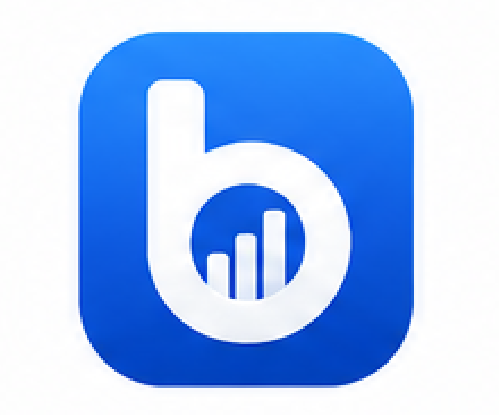
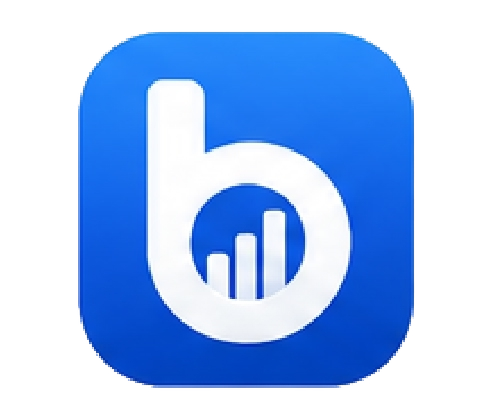
Update README with new branding images and badges

diff --git a/README.md b/README.md
@@ -1,12 +1,19 @@
-# budget
-
 <p>
-  <img src="docs/brand/isotipo.png" alt="budget isotipo" width="48" height="40">
+  <center>
+    <img src="docs/brand/isologo-isotipo-no-bg.png" alt="budget isotipo" height="100">
+  </center>
 </p>
 
-[![CI](https://github.com/abelsr/budget/actions/workflows/ci.yml/badge.svg)](https://github.com/abelsr/budget/actions/workflows/ci.yml)
+# budget
 
-> **El dinero de tu hogar, en un solo lugar.**
+[![CI](https://github.com/abelsr/budget/actions/workflows/ci.yml/badge.svg)](https://github.com/abelsr/budget/actions/workflows/ci.yml)
+[![Python 3.14](https://img.shields.io/badge/Python-3.14-3776AB?logo=python&logoColor=white)](https://www.python.org/)
+[![FastAPI](https://img.shields.io/badge/FastAPI-009688?logo=fastapi&logoColor=white)](https://fastapi.tiangolo.com/)
+[![Vite](https://img.shields.io/badge/Vite-646CFF?logo=vite&logoColor=white)](https://vitejs.dev/)
+[![PostgreSQL](https://img.shields.io/badge/PostgreSQL-4169E1?logo=postgresql&logoColor=white)](https://www.postgresql.org/)
+[![Docker](https://img.shields.io/badge/Docker-2496ED?logo=docker&logoColor=white)](https://www.docker.com/)
+
+> **Your household's money, in one place.**
 
 Self-hosted web app (PWA) for a family to track and understand their expenses
 and income. Individual accounts per person that join a **household** via an
